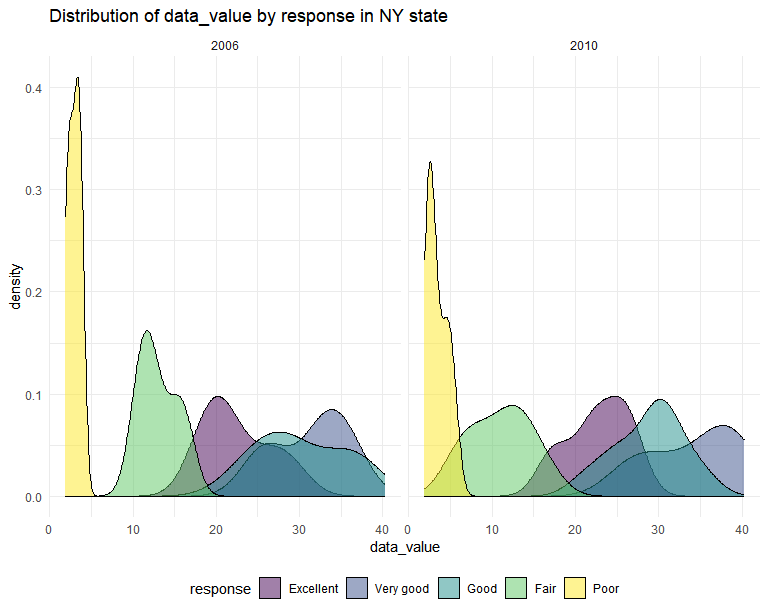
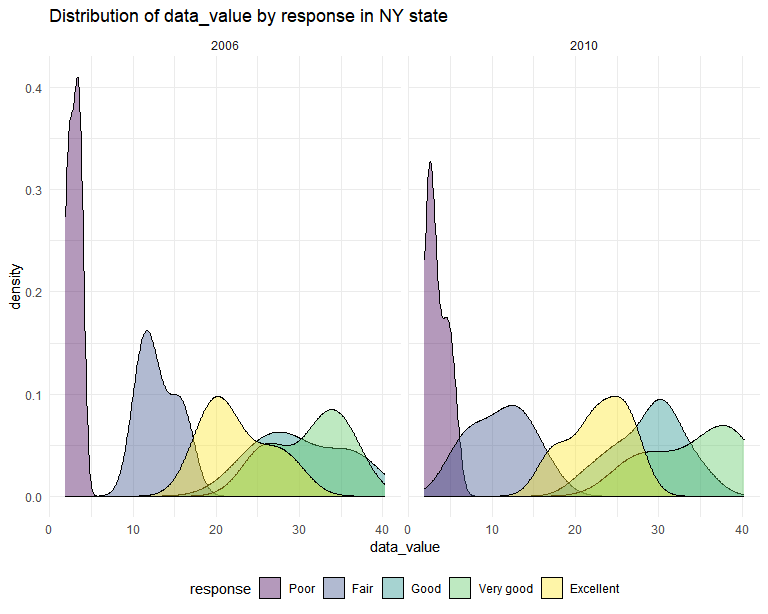
tables & plots for P3! done! (i hope)

Changed region(s): [[0.0625, 0.1547, 0.5, 0.8355], [0.5312, 0.2785, 0.9688, 0.8355], [0.3438, 0.9283, 0.8125, 0.9902]]

diff --git a/p8105_hw3_mpg2166.md b/p8105_hw3_mpg2166.md
@@ -136,7 +136,9 @@ brfss_smart2010 =
   filter(
     topic == "Overall Health",
     response %in% c("Excellent", "Very good", "Good", "Fair", "Poor")) |> 
-  mutate(response = as_factor(response))
+  mutate(response = factor(
+    response,
+    levels = c("Poor", "Fair", "Good", "Very good", "Excellent")))
 ```
 
 #### Answer questions about the data:
@@ -229,7 +231,7 @@ brfss_smart2010 |>
     state == "NY",
     year %in% c(2006, 2010)) |> 
   ggplot(aes(x = data_value, fill = response)) +
-  geom_density(alpha = .5) +
+  geom_density(alpha = .4) +
   facet_grid(. ~ year) +
   labs(title = "Distribution of data_value by response in NY state")
 ```
@@ -249,11 +251,15 @@ nhanes_dem =
       sex,
       1 ~ "Male",
       2 ~ "Female"),
-    education = as_factor(case_match(
+    education = case_match(
       education,
       1 ~ "Less than High School",
-      2 ~ "High School equivalent",
-      3 ~ "More than High School")))
+      2 ~ "High School Equivalent",
+      3 ~ "More than High School"),
+    education = factor(
+      education,
+      levels = c("Less than High School", "High School Equivalent", "More than High School")
+    ))
 ```
 
     ## Rows: 250 Columns: 5
@@ -286,3 +292,104 @@ nhanes =
 ```
 
     ## Joining with `by = join_by(seqn)`
+
+Below is a table that shows the number of men and women in each
+education category. The values are fairly evenly distributed in the Less
+than High School and More than High School categories, but there are a
+noticeable amount more men than women in the High School Equivalent
+category.
+
+``` r
+nhanes |> 
+  group_by(education, sex) |> 
+  count(sex) |> 
+  pivot_wider(
+    names_from = sex,
+    values_from = n
+  ) |> 
+  knitr::kable()
+```
+
+| education              | Female | Male |
+|:-----------------------|-------:|-----:|
+| Less than High School  |     28 |   27 |
+| High School Equivalent |     23 |   35 |
+| More than High School  |     59 |   56 |
+
+The boxplot below shows the distribution of age by sex within each
+education category. All 6 boxplots have very similar age ranges. The
+median age for both sexes is visibly lower in the More than High School
+category compared with the other two categories. Distributions between
+sexes appear more aligned in the Less than High School and More than
+High School categories, whereas ages are clustered at higher values for
+females than males in the High School Equivalent category.
+
+``` r
+nhanes |> 
+  ggplot(aes(x = sex, y = age)) +
+  geom_boxplot() +
+  facet_grid(. ~ education) +
+  labs(title = "Age distributions by sex and education category")
+```
+
+<img src="p8105_hw3_mpg2166_files/figure-gfm/unnamed-chunk-14-1.png" width="90%" />
+
+The below plot shows total activity vs. age comparing by sex within each
+education level category. The `geom_smooth` lines show that total
+activity tends to decrease with age, though it does fluctuate greatly.
+Total activity levels appear to decrease by education level.
+
+``` r
+nhanes |> 
+  pivot_longer(
+    min1:min1440,
+    names_to = "minute",
+    values_to = "accel"
+  ) |> 
+  group_by(seqn) |> 
+  mutate(
+    total_activity = sum(accel)
+  ) |> 
+  ggplot(aes(x = age, y = total_activity, color = sex)) +
+  geom_point(alpha = .7) +
+  geom_smooth(se = FALSE) +
+  facet_grid(. ~ education) +
+  labs(title = "Age vs. Total Activity (by Sex and Education Level)")
+```
+
+    ## `geom_smooth()` using method = 'gam' and formula = 'y ~ s(x, bs = "cs")'
+
+<img src="p8105_hw3_mpg2166_files/figure-gfm/unnamed-chunk-15-1.png" width="90%" />
+
+The below three-panel plot shows the 24-hour activity time courses for
+each education level by sex. Knowing that minute = 1 occurs at 12:01 AM,
+it makes sense that the general pattern shows a drop-off in activity
+over the following ~4 hours. Activity sharply picks up from around
+minute 250 (around 4 AM) until about minute 600 (10 AM) for all groups,
+remains fairly steady until about minute 1100 (6:30 PM), then declines
+again until midnight. This makes logical sense!
+
+``` r
+nhanes |> 
+  pivot_longer(
+    min1:min1440,
+    names_to = "minute",
+    names_prefix = "min",
+    values_to = "accel"
+  ) |> 
+  mutate(minute = as.integer(minute)) |> 
+  group_by(education, sex, minute) |> 
+  summarize(
+    mean_accel = mean(accel)
+  ) |> 
+  ggplot(aes(x = minute, y = mean_accel, color = sex)) +
+  geom_point(alpha = .3) +
+  geom_smooth(se = FALSE) +
+  facet_grid(. ~ education) 
+```
+
+    ## `summarise()` has grouped output by 'education', 'sex'. You can override using
+    ## the `.groups` argument.
+    ## `geom_smooth()` using method = 'gam' and formula = 'y ~ s(x, bs = "cs")'
+
+<img src="p8105_hw3_mpg2166_files/figure-gfm/unnamed-chunk-16-1.png" width="90%" />
